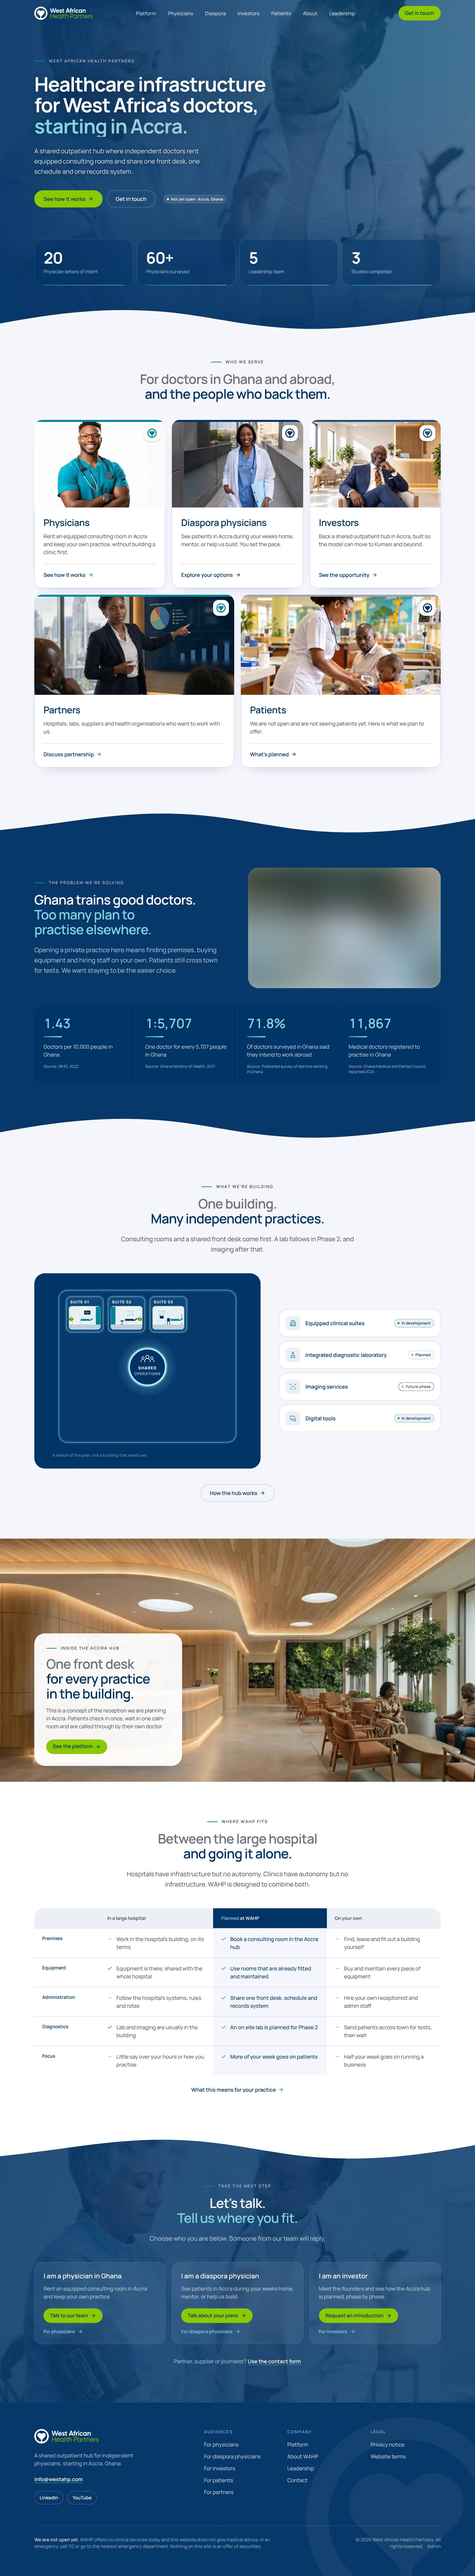
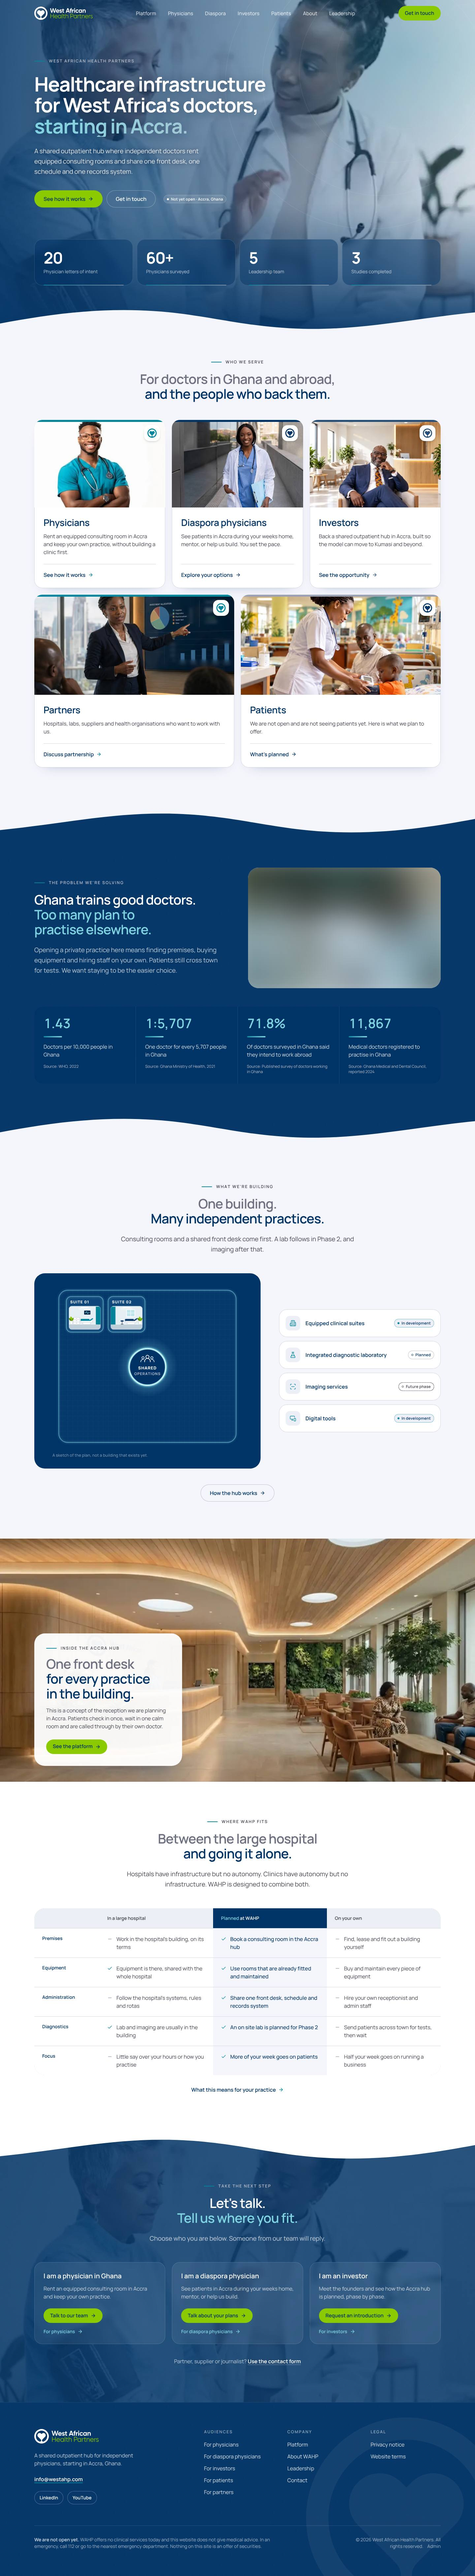
Phone hero: show the whole video scene; fit the header on small phones
- On phones the hero video gets its own band under the header, showing
  about 80% of the frame instead of a 15% slice, and fades into navy
  where the text starts. Text is back on the original deep navy; the
  phone-only overlay, white intro and teal-200 token are removed.
- Header overflowed 360px screens by 16px: smaller logo and gap under
  380px, and the header "Get in touch" hides under 360px (the menu has
  one). No sideways scroll from 320px to 430px.

Claude-Session: https://claude.ai/code/session_01Gg6TP4sXwQchVWe3LbXuH5

Changed region(s): [[0.0, 0.0, 1.0, 0.1247], [0.3125, 0.4987, 0.4062, 0.5298]]

diff --git a/src/app/(site)/page.tsx b/src/app/(site)/page.tsx
@@ -45,12 +45,19 @@ export default function HomePage() {
       {/* 1 — Hero: one statement, one line of support, two actions, the groundwork in numbers. */}
       {/* Pulled up under the header (which is transparent over the hero) so the footage starts at the very top. */}
       <section data-hero className="grain on-dark relative isolate -mt-18 overflow-hidden bg-navy text-white md:-mt-20">
-        <LoopVideo src="/video/hero-clinic" className="-z-20 object-[38%_30%]" />
-        {/* Deep-blue overlay: light enough for the footage to carry the hero (owner request, 5 Nov 2026), with a
-            soft shadow on the text and darker glass on the stat cards to keep them readable. */}
+        {/* Phones: the footage gets its own band under the header, wide enough to show the whole scene rather
+            than a zoomed slice, and fades into navy where the text starts (owner request, 5 Nov 2026).
+            Larger screens: it fills the hero behind a navy overlay that opens up towards the right. */}
+        <div aria-hidden className="absolute inset-x-0 top-18 -z-20 h-[17rem] md:inset-0 md:h-auto">
+          <LoopVideo src="/video/hero-clinic" className="object-[25%_50%] md:object-[38%_30%]" />
+        </div>
         <div
           aria-hidden
-          className="absolute inset-0 -z-10 bg-navy/[0.66] md:bg-[linear-gradient(90deg,rgba(0,51,102,0.82)_0%,rgba(0,51,102,0.55)_45%,rgba(0,51,102,0.12)_100%)]"
+          className="absolute inset-x-0 top-18 -z-10 h-[17rem] bg-[linear-gradient(to_bottom,rgba(0,51,102,0.25)_0%,rgba(0,51,102,0.05)_25%,rgba(0,51,102,0.12)_62%,#003366_100%)] md:hidden"
+        />
+        <div
+          aria-hidden
+          className="absolute inset-0 -z-10 md:bg-[linear-gradient(90deg,rgba(0,51,102,0.82)_0%,rgba(0,51,102,0.55)_45%,rgba(0,51,102,0.12)_100%)]"
         />
         <div
           aria-hidden
@@ -60,7 +67,7 @@ export default function HomePage() {
           <HeroRings className="size-[44rem] text-white/[0.07] md:size-[56rem]" />
         </div>
 
-        <div className="container-wahp relative pt-32 pb-12 md:pt-44 md:pb-16">
+        <div className="container-wahp relative pt-[21rem] pb-12 md:pt-44 md:pb-16">
           <div className="scroll-recede max-w-4xl">
             <div className="hero-in" style={delay(0)}>
               <Eyebrow dark>West African Health Partners</Eyebrow>
@@ -70,14 +77,14 @@ export default function HomePage() {
                 {hero.lead}
               </span>
               <span
-                className="hero-line block bg-gradient-to-r from-teal-200 to-smoke bg-clip-text text-transparent md:from-teal-300 md:to-steel"
+                className="hero-line block bg-gradient-to-r from-teal-300 to-steel bg-clip-text text-transparent"
                 style={delay(160)}
               >
                 {hero.rest}
               </span>
             </h1>
             <p
-              className="hero-in mt-7 max-w-xl text-lead text-white md:text-white/90 [text-shadow:0_1px_14px_rgba(0,25,51,0.75)]"
+              className="hero-in mt-7 max-w-xl text-lead text-white/80 md:text-white/90 [text-shadow:0_1px_14px_rgba(0,25,51,0.75)]"
               style={delay(260)}
             >
               {hero.intro}

diff --git a/src/components/layout/site-header.tsx b/src/components/layout/site-header.tsx
@@ -95,9 +95,9 @@ export function SiteHeader() {
               : "bg-paper"
         }`}
       >
-        <div className="container-wahp flex h-18 items-center justify-between gap-6 md:h-20">
+        <div className="container-wahp flex h-18 items-center justify-between gap-3 min-[380px]:gap-6 md:h-20">
           <Link href="/" className="shrink-0 rounded-md" aria-label="West African Health Partners home">
-            <Logo tone={blend ? "reversed" : "primary"} className="h-9 w-auto md:h-10" title={null} />
+            <Logo tone={blend ? "reversed" : "primary"} className="h-8 w-auto min-[380px]:h-9 md:h-10" title={null} />
           </Link>
 
           <nav aria-label="Primary" className="hidden lg:block">
@@ -134,9 +134,14 @@ export function SiteHeader() {
           </nav>
 
           <div className="flex items-center gap-2">
+            {/* Under 360px wide this button would push the header off screen; the menu has its own "Get in touch". */}
             <Link
               href="/contact"
-              className={buttonClasses("primary", "md", "!h-10 !px-4 text-sm sm:!h-11 sm:!px-5 sm:text-[0.95rem]")}
+              className={buttonClasses(
+                "primary",
+                "md",
+                "!h-10 !px-4 text-sm max-[359px]:hidden sm:!h-11 sm:!px-5 sm:text-[0.95rem]",
+              )}
             >
               Get in touch
             </Link>

diff --git a/src/app/globals.css b/src/app/globals.css
@@ -26,8 +26,6 @@
   /* Light teal for the statement line of headings on navy (teal itself is under 3:1 there; this is 7.4:1).
      The Home hero already used it; it plays the part the older site gave to green words. */
   --color-teal-300: #7fd3e1;
-  /* Paler tint for the hero statement line on phones, where the footage sits behind all the text (3:1 or more). */
-  --color-teal-200: #a7e3ed;
 
   --font-sans: var(--font-manrope), ui-sans-serif, system-ui, sans-serif;
 

diff --git a/docs/IMPLEMENTATION_LOG.md b/docs/IMPLEMENTATION_LOG.md
@@ -257,3 +257,9 @@ Both redrawn as inline SVG after the owner's mockups, so they stay sharp, keep t
 - At the owner's request the Home hero shows more of its footage. The navy overlay is lighter: 66% on phones (was 75%), and on desktop it fades from 82% behind the text to 12% on the right (was 93% to 32%). The dark band at the bottom is shorter, and the four stat cards have darker glass so they stay readable.
 - The headline and intro have a soft navy shadow. On phones the intro is full white and the statement line uses a paler teal (`teal-200`), because the footage sits behind all the text there.
 - Contrast was measured on the footage itself, with the text hidden and shadows off, at six points in the loop (95th percentile of background brightness). Worst case: phones, headline 4.7:1, teal line 3.2:1, intro 4.6:1; desktop, 7.0:1, 3.9:1 and 7.9:1. All meet WCAG AA (3:1 for large text, 4.5:1 for body text).
+
+## 5 Nov 2026, phone hero shows the whole scene; header fits small phones
+
+- The owner meant the crop, not the overlay. On phones the hero video used to fill the whole tall hero, which zoomed it to about 15% of the frame's width. It now has its own 17rem band under the header that shows about 80% of the frame (both people), lightly tinted, fading into navy where the eyebrow starts. The headline and intro sit on the original deep navy again.
+- This replaces the phone part of the previous entry: the 66% overlay, the white intro and the `teal-200` token are gone. The desktop overlay (82% to 12%) stays.
+- Header: the logo, "Get in touch" and the menu button overflowed 360px screens by 16px on every page (since 21 Oct). Under 380px the logo is now 32px tall (142px wide, above the 120px minimum) with a smaller gap, and under 360px the header's "Get in touch" is hidden (the menu has one). No page scrolls sideways from 320px to 430px.

diff --git a/docs/BRAND_IMPLEMENTATION.md b/docs/BRAND_IMPLEMENTATION.md
@@ -33,7 +33,6 @@ The inline `<Logo>` component (`src/components/brand/logo.tsx`) renders the exac
 | `navy-900` | `#002447` | Derived shade | Hover state of navy buttons only |
 | `navy-700` | `#26507A` | Guideline covers | Watermark emblem only |
 | `teal-300` | `#7FD3E1` | Derived light tint of teal | Statement line of headings on navy (7.4:1 on navy), and checkmarks on navy |
-| `teal-200` | `#A7E3ED` | Paler tint of teal | Home hero statement line on phones only, where the footage sits behind all the text |
 
 There are no gradients and no colours outside this list.
 
